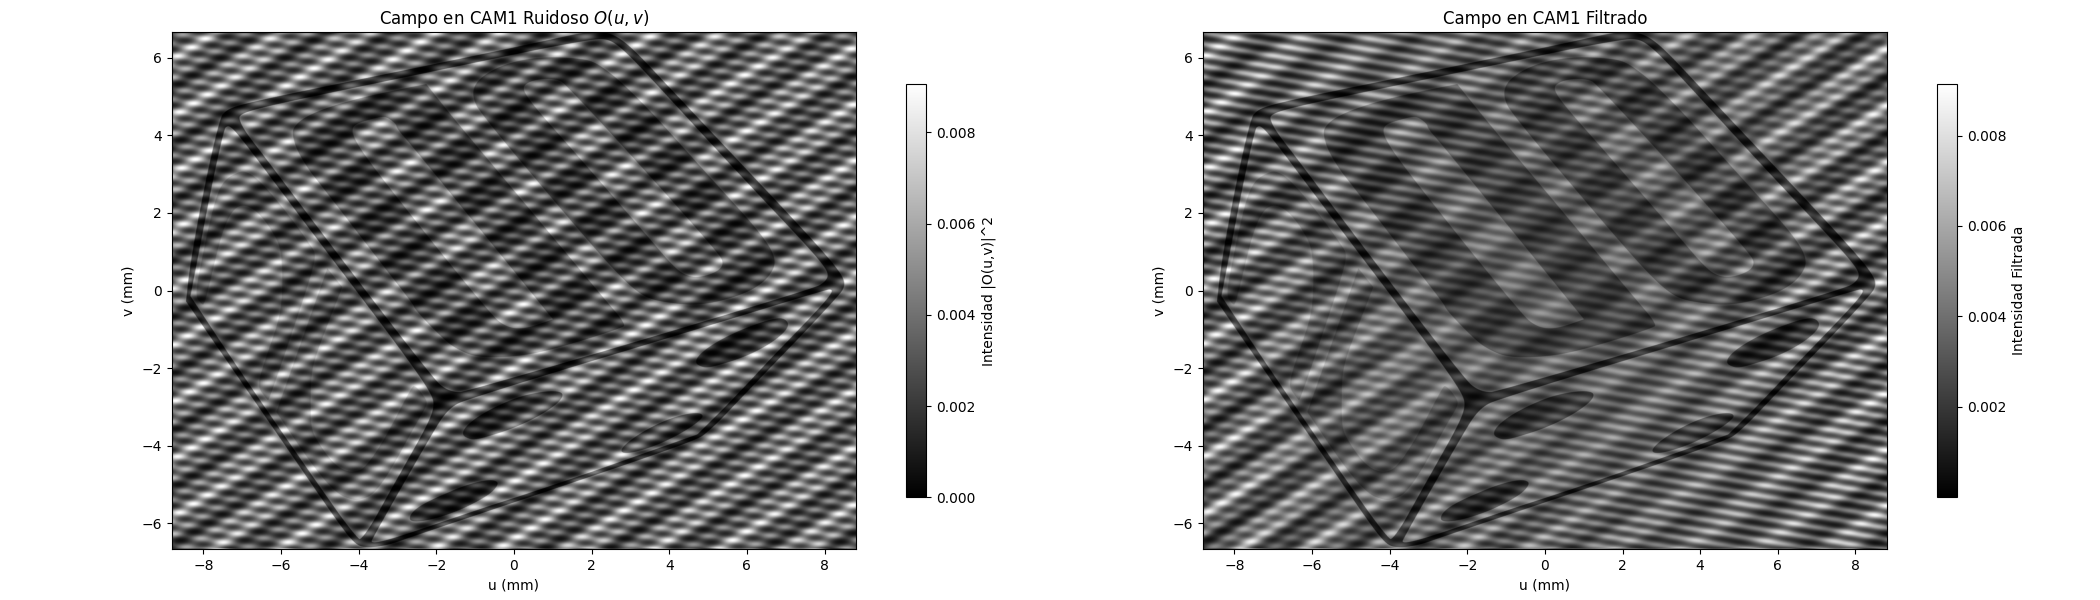
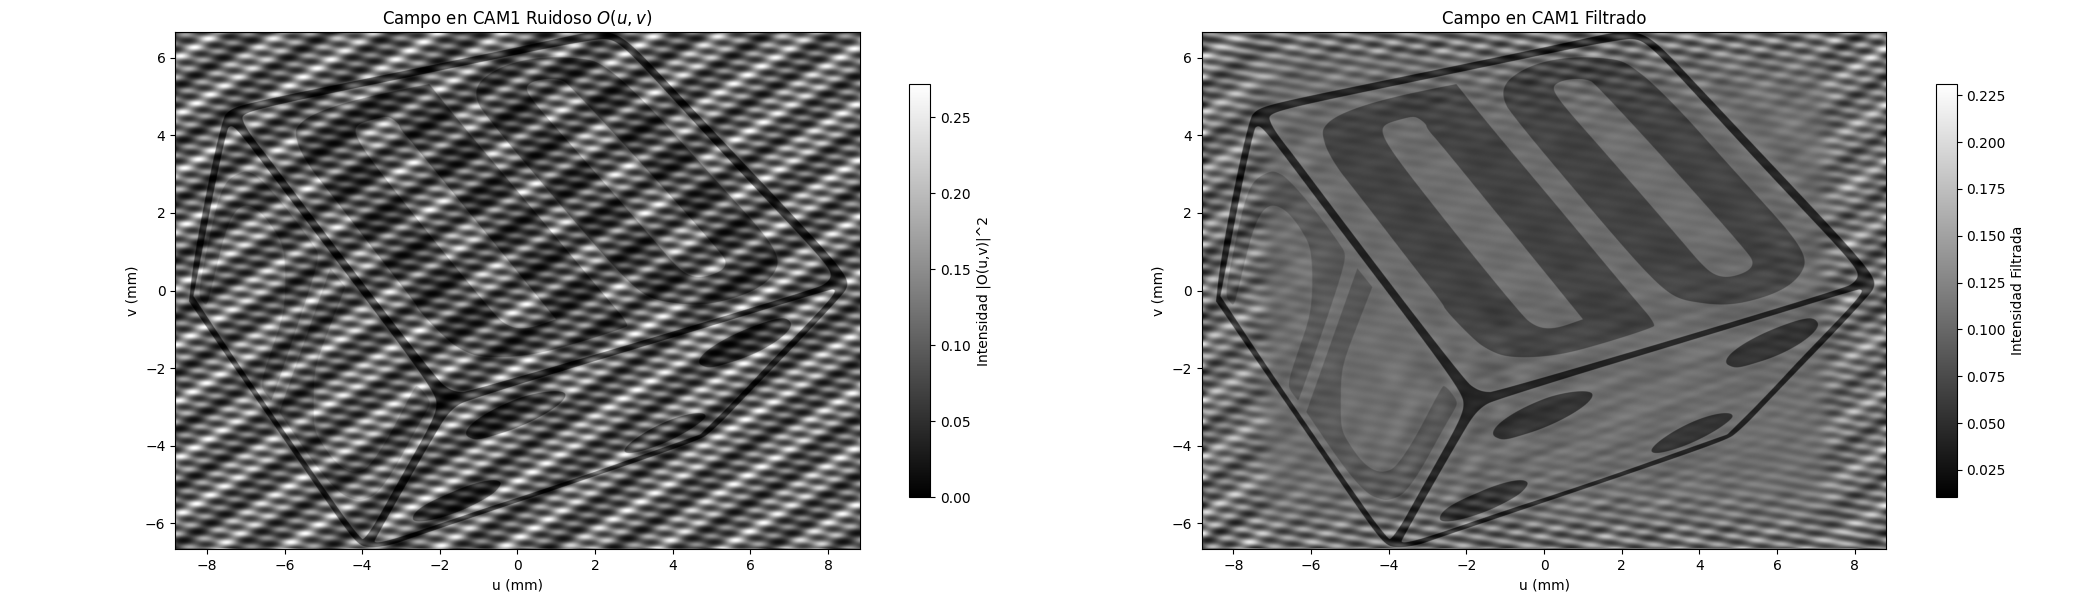
update
funciona todo

diff --git a/Practicas/Practica_02/Actividad_1/Parte_02.py b/Practicas/Practica_02/Actividad_1/Parte_02.py
@@ -244,12 +244,52 @@ campo_entrada_1 = transmitancia_entrada('imagen') # S(ξ,η)
 # ===================================================================
 
 
-def propagar_ABCD_(U1, A, B, C, D, lam):
+def propagar_ABCD_(U1, A, B, C, D, lam, CAM):
 
  #Caso en el que estamos:
  #salida_ (t(x,y)) = (np.exp(1j*k*f) / 1j*lam*f) * (np.fft.fft2(campo_entrada_1)* dx * dy)
  #salida_t (O(u,v)) = (np.exp(-1j*k*f) / -1j*lam*f) * (np.fft.ifft2(salida_) * (Nx * Ny) * dfx * dfy)
 
+ if CAM == 'CAM1':
+   #-----Muestreo Horizontal-------
+  Nx = 1024 # Número de muestras (píxeles)
+  Lx = 17.6 # Tamaño físico de la ventana (mm)
+  dx = Lx / Nx # Paso espacial Δx
+  dfx = 1 / Lx # Paso en frecuencia Δfx
+
+  #-----Muestreo Vertical-------
+  Ny = 1024 # Número de muestras (píxeles)
+  Ly = 13.3 # Tamaño físico de la ventana (mm)
+  dy = Ly / Ny # Paso espacial Δy
+  dfy = 1 / Ly # Paso en frecuencia Δfy
+
+ elif CAM == 'CAM2':
+   
+  #-----Muestreo Horizontal-------
+  Nx = 1024 # Número de muestras (píxeles)
+  Lx = 6.6 # Tamaño físico de la ventana (mm)
+  dx = Lx / Nx # Paso espacial Δx
+  dfx = 1 / Lx # Paso en frecuencia Δfx
+
+  #-----Muestreo Vertical-------
+  Ny = 1024 # Número de muestras (píxeles)
+  Ly = 5.3 # Tamaño físico de la ventana (mm)
+  dy = Ly / Ny # Paso espacial Δy
+  dfy = 1 / Ly # Paso en frecuencia Δfy
+
+ else: 
+  #-----Muestreo Horizontal-------
+  Nx = np.shape(U1)[0] # Número de muestras (píxeles)
+  Lx = 10 # Tamaño físico de la ventana (mm)
+  dx = Lx / Nx # Paso espacial Δx
+  dfx = 1 / Lx # Paso en frecuencia Δfx
+
+  #-----Muestreo Vertical-------
+  Ny = np.shape(U1)[1]  # Número de muestras (píxeles)
+  Ly = 10 # Tamaño físico de la ventana (mm)
+  dy = Ly / Ny # Paso espacial Δy
+  dfy = 1 / Ly # Paso en frecuencia Δfy
+   
  # --- Coordenadas de entrada ---
  n = np.arange(Nx) - Nx//2
  m = np.arange(Ny) - Ny//2
@@ -304,16 +344,16 @@ def propagar_ABCD_(U1, A, B, C, D, lam):
 T_xy = 1 
 
 # Calculamos la propagacion de la primera trayectoria donde veremos el campo t(x,y) en el plano del espejo M1
-S1_campo, S1_x_mesh, S1_y_mesh, S1_dx, S1_dy = propagar_ABCD_(campo_entrada_1, A_1, B_1, C_1, D_1, lam) * T_xy
+S1_campo, S1_x_mesh, S1_y_mesh, S1_dx, S1_dy = propagar_ABCD_(campo_entrada_1, A_1, B_1, C_1, D_1, lam,'CAM1') * T_xy
 
 #Definir los campos de entrada para la segunda parte de la trayectoria 01 pt 02
 campo_entrada_2 = S1_campo 
 
 #Calculamos la propagacion de la segunda trayectoria donde veremos el campo O(u,v) en el plano de la camara CAM1
-S2_campo, S2_x_mesh, S2_y_mesh, S2_dx, S2_dy = propagar_ABCD_(campo_entrada_2, A_2, B_2, C_2, D_2, lam)
+S2_campo, S2_x_mesh, S2_y_mesh, S2_dx, S2_dy = propagar_ABCD_(campo_entrada_2, A_2, B_2, C_2, D_2, lam,'CAM1')
 
 # Calculamos la propagacion de la segunda trayectoria donde veremos el campo U(x,y) en el plano de la camara CAM2
-S3_campo, S3_x_mesh, S3_y_mesh, S3_dx, S3_dy = propagar_ABCD_(campo_entrada_1, A_3, B_3, C_3, D_3, lam)
+S3_campo, S3_x_mesh, S3_y_mesh, S3_dx, S3_dy = propagar_ABCD_(campo_entrada_1, A_3, B_3, C_3, D_3, lam, 'CAM2')
 
 print(S3_campo.shape)
 
@@ -341,18 +381,7 @@ intensity_S1 = np.abs(S1_campo)**2
 # Límites del espejo M1 
 ancho_m1_mm = 10.4
 alto_m1_mm = 5.8
-
-# Usas las dimensiones del espejo para definir el extent directamente
 extent_m1 = [-ancho_m1_mm/2, ancho_m1_mm/2, -alto_m1_mm/2, alto_m1_mm/2]
-#extent_S1 = [S1_x_mesh.min(), S1_x_mesh.max(), S1_y_mesh.min(), S1_y_mesh.max()]
-#im_s1 = axes[1].imshow(intensity_S1, cmap='gray', extent=extent_m1, origin='lower', aspect='equal')
-#fig.colorbar(im_s1, ax=axes[1], label='Intensidad |S1|^2', shrink=0.8)
-#axes[1].set_xlabel('x (mm)') # Coordenadas del plano M1
-#axes[1].set_ylabel('y (mm)')
-#axes[1].set_title('Campo en M1 $t(x,y)$') # Título más descriptivo
-#axes[1].grid(False)
-#axes[1].set_xlim(-0.05,0.05)
-#axes[1].set_ylim(-0.05,0.05)
 
 # --- Intensidad de S2_campo O(u,v) ---
 intensity_S2 = np.abs(S2_campo)**2
@@ -360,8 +389,6 @@ intensity_S2 = np.abs(S2_campo)**2
 # Límites de la cámara CAM1
 ancho_cam1_mm = 4640 * 3.8e-3 # Ancho físico en mm
 alto_cam1_mm = 3506 * 3.8e-3 # Alto físico en mm
-
-# Usas las dimensiones de la cámara para definir el extent directamente
 extent_cam1 = [-ancho_cam1_mm/2, ancho_cam1_mm/2, -alto_cam1_mm/2, alto_cam1_mm/2]
 
 im_s2 = axes[1].imshow(intensity_S2, cmap='gray', extent=extent_cam1, origin='lower', aspect='equal')
@@ -416,12 +443,13 @@ ax_.set_title('Campo en CAM1 $O(u,v)$')
 ax_.grid(False)
 
 plt.tight_layout() 
-plt.savefig('Practicas/Practica_02/Actividad_1/O(u,v)en CAM1.png') 
+plt.savefig('Practicas/Practica_02/Actividad_1/Resultados/O(u,v)en CAM1.png') 
 plt.show()
 
 fig, ax = plt.subplots(figsize=(7, 6)) # figsize can be adjusted
 
 # --- Graficar la Magnitud de la Transformada de Fourier (escala log) ---
+
 im_tf_plot = ax.imshow(log_intensity_s3_shifted, cmap='hot', extent=extent_cam2, origin='upper', aspect='equal')
 fig.colorbar(im_tf_plot, ax=ax, label='Log Magnitud $|\\mathcal{F}\\{$S(ξ,η)$\\}|$', shrink=0.8)
 ax.set_xlabel('$x´$ (1/mm)')
@@ -489,14 +517,35 @@ TF_magnitude = np.abs(TF_shifted)               # Magnitud de la TF
 TF_log_magnitude = np.log1p(TF_magnitude)       # Usar escala logarítmica para mejor visualización (log(1+x) para evitar log(0))
 
 # --- Calcular extensión espacial y de frecuencia ---
+   
+#-----Muestreo Horizontal-------
+Nx_ = 1024 # Número de muestras (píxeles)
+Lx_ = 6.6 # Tamaño físico de la ventana (mm)
+dx_ = Lx_ / Nx_ # Paso espacial Δx
+dfx = 1 / Lx_ # Paso en frecuencia Δfx
+
+#-----Muestreo Vertical-------
+Ny_ = 1024 # Número de muestras (píxeles)
+Ly_ = 5.3 # Tamaño físico de la ventana (mm)
+dy_ = Ly_ / Ny_ # Paso espacial Δy
+dfy = 1 / Ly_ # Paso en frecuencia Δfy
+
+# ---------- Coordenadas de frecuencia (fx, fy) ----------
+p = np.arange(Nx) - Nx//2 # Contadores centrados
+q = np.arange(Ny) - Ny//2
+fx_vec = p * dfx 
+fy_vec = q * dfy
+fx, fy = np.meshgrid(fx_vec, fy_vec) 
+
 # Extensión espacial ya definida como extent_cam1
 # Calcular frecuencias para los ejes (usando las dimensiones de salida S2)
-dx_out = S2_dx # Paso espacial en la salida
-dy_out = S2_dy
+dx_out = dfx # Paso espacial en la salida
+dy_out = dfy
 
 # Usaremos las frecuencias originales fx_vec, fy_vec ya que la máscara se define allí
 fx = fx_vec 
 fy = fy_vec 
+
 extent_freq = [fx.min(), fx.max(), fy.min(), fy.max()] 
 extent_freq = [-15,15,-15,15] # Limitar el rango para mejor visualización
 
@@ -519,8 +568,8 @@ axes_tf[1].set_xlabel('$x´$ (1/mm)')
 axes_tf[1].set_ylabel('$y´$ (1/mm)') 
 axes_tf[1].set_title('Campo U(x´,y´) en $CAM2$')
 axes_tf[1].grid(False)
-axes_tf[1].set_xlim(-15,15) 
-axes_tf[1].set_ylim(-15,15)
+axes_tf[1].set_xlim(-2.5,2.5) 
+axes_tf[1].set_ylim(-2.5,2.5)
 
 plt.tight_layout() 
 plt.savefig('Practicas/Practica_02/Actividad_1/Resultados/TF de 0(u,v).png') 
@@ -678,7 +727,7 @@ unique_target_coords_freq = list(target_coords_freq_set)
 
 # --- Parámetros de la máscara GAUSSIANA ---
 
-sigma_noise_freq = 0.02 # Sigma para las masacaras de alrededor del centro  (1/mm)
+sigma_noise_freq = 0.3 # Sigma para las masacaras de alrededor del centro  (1/mm)
 sigma_freq = 0   # Sigma para la masacara en el centro (1/mm)
 
 # --- Crear la máscara GAUSSIANA que no deja pasar las frecuencias (altas) ---
